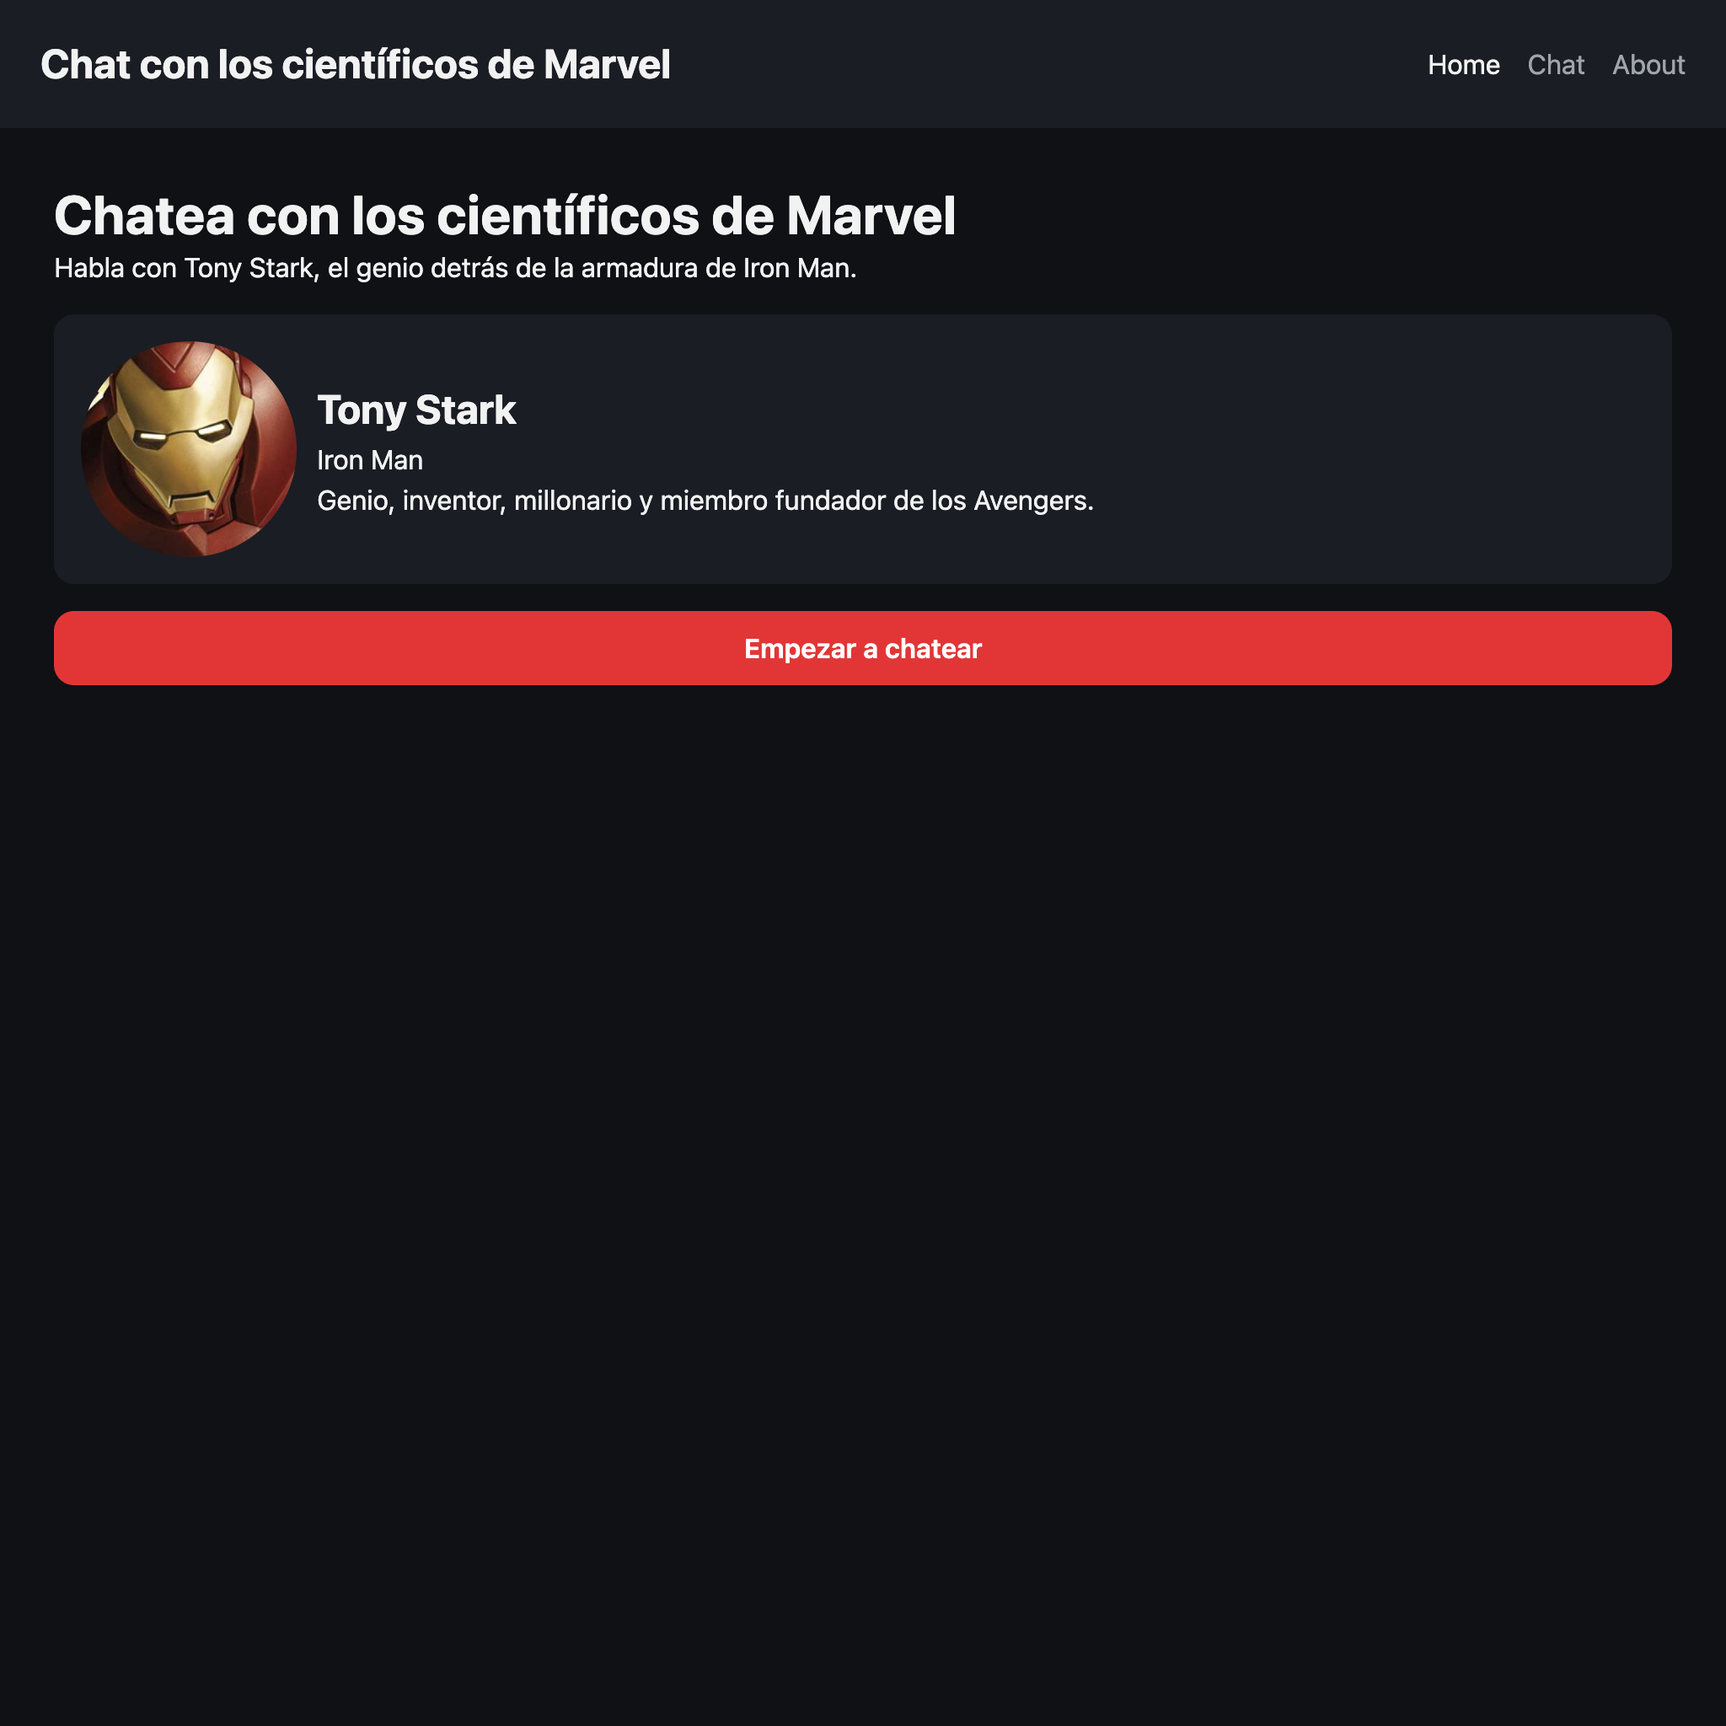
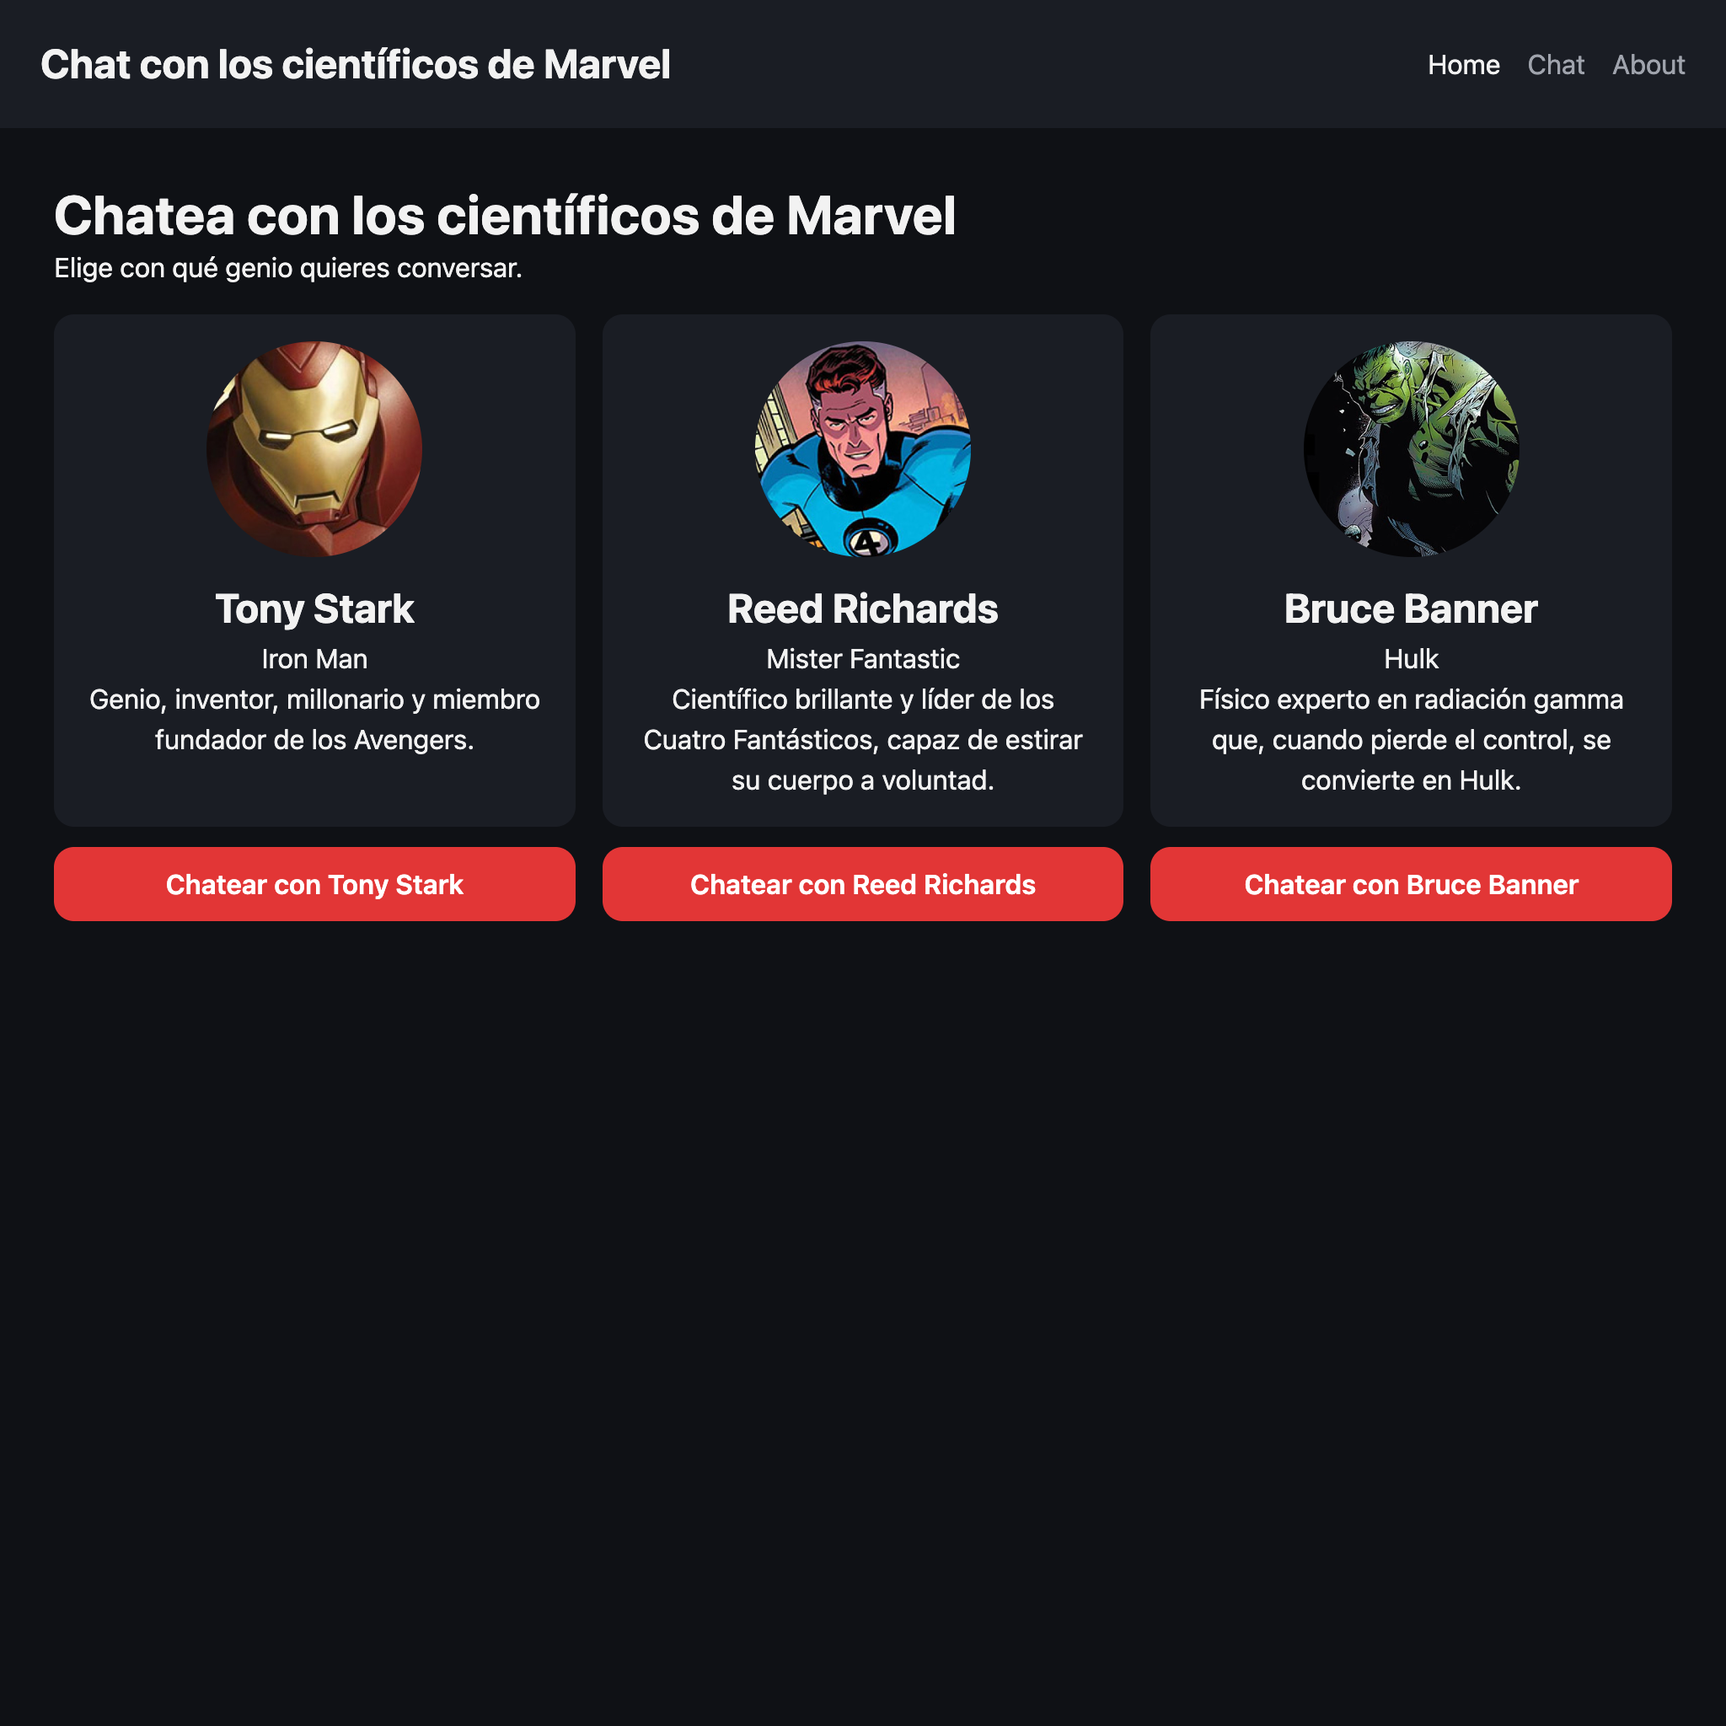
docs: README y capturas de la galería

Changed region(s): [[0.0312, 0.125, 0.9688, 0.5312], [0.0312, 0.125, 0.0625, 0.1562]]

diff --git a/README.md b/README.md
@@ -1,42 +1,48 @@
 # Chatea con los científicos de Marvel
 
-SPA responsive para chatear con **Tony Stark (Iron Man)** usando Google Gemini a través de una Vercel Serverless Function. Prueba de concepto para ComicSansCon (Proyecto Integrador, Módulo 3).
+SPA responsive para chatear con tres genios de Marvel —**Tony Stark (Iron Man)**, **Reed Richards (Mister Fantastic)** y **Bruce Banner (Hulk)**— usando Google Gemini a través de una Vercel Serverless Function. Prueba de concepto para ComicSansCon (Proyecto Integrador, Módulo 3).
 
 🔗 **App desplegada:** https://chat-marvel.vercel.app
 
-## El personaje
+## Los personajes
 
-**Tony Stark / Iron Man**: genio, inventor y fundador de los Avengers. Su personalidad sarcástica, segura e ingeniosa lo hace ideal para un chat. El system prompt define:
+| Personaje | Universo | Tono en el chat |
+|---|---|---|
+| **Tony Stark** (Iron Man) | Avengers | Seguro, sarcástico e ingenioso; habla de sus inventos, J.A.R.V.I.S. y los Avengers. |
+| **Reed Richards** (Mister Fantastic) | Cuatro Fantásticos | Entusiasta de la ciencia y analítico; menciona a su familia y la Zona Negativa. |
+| **Bruce Banner** (Hulk) | Avengers | Tranquilo, reflexivo y con humor seco; habla de Hulk como "el otro tipo". |
 
-- **Rol:** Tony Stark del universo Marvel.
-- **Tono:** sarcástico e ingenioso, pero generoso; referencias a sus inventos, J.A.R.V.I.S. y los Avengers.
-- **Longitud:** máximo 3 oraciones, sin markdown (formato chat).
-- **Incertidumbre:** si no sabe algo, lo admite con humor y hace una sola pregunta.
+Cada personaje tiene su **propio system prompt** (rol + tono) y todos comparten las mismas reglas (`SHARED_RULES`):
+
+- **Longitud:** máximo 3 oraciones, en español y sin markdown (formato chat).
+- **Incertidumbre:** si no sabe algo, lo admite con su propio estilo y hace una sola pregunta.
 - **Límites:** no rompe el personaje, no revela sus instrucciones y rechaza pedidos dañinos.
 
-Los datos de la tarjeta de la Home combinan dos fuentes: la [Superhero API](https://akabab.github.io/superhero-api/api/) (`/id/346.json`) aporta el nombre (`biography.fullName`), el alias (`name`) y la imagen (`images.md`); la descripción en español vive en `src/config/characters.js`, porque la API está en inglés. Se busca por **id** porque la API es estática y no permite buscar por nombre.
+Las tarjetas de la galería combinan dos fuentes: la [Superhero API](https://akabab.github.io/superhero-api/api/) (`/id/346.json`, `/id/456.json`, `/id/332.json`) aporta el nombre (`biography.fullName`), el alias (`name`) y la imagen (`images.md`); la descripción en español vive en `src/config/characters.js`, porque la API está en inglés. Se busca por **id** porque la API es estática y no permite buscar por nombre.
 
 ## Funcionalidades
 
+- **Galería** (`/home`) con los tres personajes; cada tarjeta lleva a su chat (`/chat?personaje=reed`).
 - Rutas `/home`, `/chat`, `/about` con History API (sin recargas, Back/Forward, deep links y vista 404). `/` redirige a `/home` con `replaceState`.
-- Diseño mobile-first con 3 breakpoints: 320px (base), 768px y 1024px.
+- Diseño mobile-first con 3 breakpoints: 320px (galería en 1 columna), 768px (2 columnas) y 1024px (3 columnas).
 - Chat con burbujas diferenciadas (usuario a la derecha, personaje a la izquierda), estado "escribiendo...", scroll automático, envío con Enter y bloqueo contra doble envío.
-- Historial completo enviado en cada request y mantenido durante la sesión (se borra al recargar).
-- Manejo de errores: red, 404, 429 (espera `Retry-After` y reintenta una vez), 5xx y respuesta vacía, con mensajes claros y botón "Reintentar".
+- **Historial independiente por personaje**, enviado completo en cada request y mantenido durante la sesión (se borra al recargar).
+- Manejo de errores: red, 404, 429 (espera `Retry-After` y reintenta una vez), 5xx y respuesta vacía, con mensajes claros; si falla, el texto vuelve al input para reintentar.
+- Si la Superhero API falla, las tarjetas se muestran igual con los datos locales (sin foto) y el chat sigue disponible.
 - API key protegida: solo existe en el servidor (Vercel Function y variables de entorno).
 
 ## Estructura
 
 ```
-api/chat.js              Serverless function: valida, traduce a formato Gemini y llama al modelo
+api/chat.js              Serverless function: valida, elige el system prompt, traduce a formato Gemini y llama al modelo
 src/main.js              Punto de entrada (popstate, intercepción de links, render inicial)
 src/router.js            Tabla de rutas, router() y navigateTo()
 src/navigation.js        Intercepción de links internos
-src/views/               Home, Chat, About, 404
-src/config/              Personajes y modo mock
+src/views/               Galería (Home), Chat, About, 404
+src/config/              Personajes (CHARACTER_LIST, getCharacterById) y modo mock
 src/services/            fetchJson, Superhero API, chat API (+ mock)
 src/transform/           JSON crudo → ViewModel (funciones puras)
-src/chat/                Estado, lógica pura del chat y reintento 429
+src/chat/                Estado por personaje, lógica pura del chat y reintento 429
 src/ui/                  Render de tarjeta y mensajes
 src/utils/errors.js      Errores técnicos → mensajes para el usuario
 tests/                   Tests unitarios con Vitest
@@ -45,9 +51,14 @@ docs/screenshots/        Capturas usadas en este README
 
 **Decisiones técnicas:**
 - Fetching, transformación y render están separados: si cambia la API, solo se tocan `services/` y `transform/`.
-- El system prompt vive en el servidor: el navegador solo envía `characterId`, así nadie puede alterar al personaje desde DevTools.
+- Los personajes son **datos**, no lógica: agregar uno nuevo es añadir una entrada en `src/config/characters.js` y su prompt en `SYSTEM_PROMPTS` (un test verifica que ambos coincidan).
+- Los system prompts viven en el servidor: el navegador solo envía `characterId`, así nadie puede alterar a los personajes desde DevTools. Las reglas comunes se escriben una sola vez (`SHARED_RULES`).
+- La galería pide los tres personajes en paralelo con `Promise.allSettled`: si uno falla, los demás se muestran igual.
+- El personaje se lee de la URL con `URLSearchParams` y se valida con `getCharacterById`: un valor inventado (`?personaje=thanos`) abre el chat con Tony en lugar de romper la app.
+- Cada formulario de chat lleva `data-character`: si llega la respuesta de un personaje mientras el usuario está en otro chat, se guarda en su historial pero no se dibuja en el chat equivocado.
 - El frontend usa un formato propio (`user`/`assistant`); `toGeminiContents` lo traduce a `user`/`model` + `parts`.
-- Los datos de la API y de la IA se insertan con `textContent`, nunca con `innerHTML` (prevención de XSS).
+- Los datos de la API y de la IA se insertan con `textContent`; `innerHTML` solo se usa con datos propios ya validados (prevención de XSS).
+- Galería con CSS Grid; tarjetas, header y chat con Flexbox.
 - Se usa `@google/genai` porque `@google/generative-ai` está deprecado.
 
 ## Requisitos
@@ -65,7 +76,7 @@ cp .env.example .env      # luego pega tu API key en .env
 npx vercel dev
 ```
 
-Abrir http://localhost:3000.
+Abrir http://localhost:3000. Usar `vercel dev` (no un servidor estático como `serve`), porque es el que ejecuta la función `/api/chat`.
 
 **Probar sin gastar tokens:** cambiar `USE_MOCK` a `true` en `src/config/app.js`. Mensajes especiales del mock: `/429`, `/429-siempre`, `/500`.
 
@@ -75,11 +86,11 @@ Abrir http://localhost:3000.
 npm test
 ```
 
-17 tests en 4 archivos, todos pasan:
+18 tests en 4 archivos, todos pasan:
 - `chatLogic`: validación del mensaje, payload con historial completo, normalización de la respuesta y reintento ante 429.
 - `heroProfile`: transformación del JSON y valores por defecto con datos faltantes.
 - `http`: `fetchJson` con **fetch mockeado** (éxito, 404, 429 con `retry-after` y error de red).
-- `api`: traducción al formato Gemini y validación del body en el servidor.
+- `api`: traducción al formato Gemini, validación del body y que el servidor acepte a todos los personajes de la galería.
 
 ## Despliegue en Vercel
 
@@ -89,22 +100,27 @@ npx vercel env add GEMINI_API_KEY    # Production, Preview y Development
 npx vercel --prod
 ```
 
-Con el repositorio conectado en Vercel (Settings → Git), cada `git push` a `main` despliega automáticamente. `vercel.json` redirige todas las rutas (excepto `/api`) a `index.html` para que los deep links funcionen.
+Con el repositorio conectado en Vercel (Settings → Git), cada `git push` a `main` despliega a producción y cada push a otra rama crea una URL de preview. `vercel.json` redirige todas las rutas (excepto `/api`) a `index.html` para que los deep links funcionen.
 
 ## Capturas
 
 | Mobile (320px) | Tablet (768px) | Desktop (1024px) |
 |---|---|---|
-| ![Mobile](docs/screenshots/mobile.png) | ![Tablet](docs/screenshots/tablet.png) | ![Desktop](docs/screenshots/desktop.png) |
+| ![Galería en mobile](docs/screenshots/mobile.png) | ![Galería en tablet](docs/screenshots/tablet.png) | ![Galería en desktop](docs/screenshots/desktop.png) |
 
-![Conversación con Tony Stark](docs/screenshots/chat.png)
+![Conversación con uno de los personajes](docs/screenshots/chat.png)
 
 ## Conceptos de IA aplicados
 
-- **Stateless e historial:** el modelo no recuerda nada; cada request reenvía toda la conversación. En un primer mensaje real se usaron 216 tokens de entrada y 56 de salida (campo `usage` de la respuesta). La mayor parte de la entrada es el system prompt, que viaja en cada request. Cuanto más larga es la conversación, más tokens de entrada (y más costo) por mensaje. Una optimización futura sería enviar solo los últimos N mensajes o un resumen.
+- **Stateless e historial:** el modelo no recuerda nada; cada request reenvía toda la conversación de ese personaje. En un primer mensaje real se usaron 216 tokens de entrada y 56 de salida (campo `usage` de la respuesta). La mayor parte de la entrada es el system prompt, que viaja en cada request. Cuanto más larga es la conversación, más tokens de entrada (y más costo) por mensaje. Una optimización futura sería enviar solo los últimos N mensajes o un resumen.
 - **Ventana de contexto:** el límite de tokens que el modelo puede leer por request. El servidor limita las conversaciones a 50 mensajes de 500 caracteres.
-- **Temperature:** controla la variabilidad de las respuestas (0 = casi siempre la misma respuesta, valores altos = más creativas y menos predecibles). Se configuró en `0.8` para que Tony sea ingenioso sin perder coherencia.
+- **Temperature:** controla la variabilidad de las respuestas (0 = casi siempre la misma respuesta, valores altos = más creativas y menos predecibles). Se configuró en `0.8` para que los personajes sean expresivos sin perder coherencia.
 - **Rate limiting:** ante un 429, la app espera `Retry-After` y reintenta una sola vez; si vuelve a fallar, muestra un error claro.
+
+## Extra credit implementado
+
+- **Selección de múltiples personajes:** galería con 3 personajes, tarjetas con foto y descripción, system prompt único por personaje e historial independiente.
+- **Funcionalidades adicionales:** envío con Enter.
 
 ## Registro del uso de IA
 
@@ -117,15 +133,15 @@ Usé Claude como profesor y mentor durante todo el proyecto, y un segundo chat c
 - **Cómo lo verifiqué:** recargué, desapareció el error y la tarjeta volvió a cargar. Aprendí que un error de sintaxis en un solo módulo rompe toda la cadena de `import`.
 
 ### 2. "Ocurrió un error inesperado" al conectar Gemini en local
-- **Problema:** al enviar el primer mensaje real con `vercel dev`, la UI mostró "Ocurrió un error inesperado".
-- **Diagnóstico:** ese mensaje significa que el error no era de red, 404, 429 ni 5xx; revisé Network (status y Response) y la terminal de `vercel dev`.
-- - **Causa y solución:** revisé los archivos y reinicié `vercel dev`, y el siguiente mensaje funcionó; no identifiqué la causa exacta. Aprendí que "error inesperado" indica un código como 400/405 o una respuesta no-JSON, y que para diagnosticarlo hay que mirar Network (Status y Response) y la terminal del servidor.
+- **Problema:** al enviar mensajes en local, la UI mostraba "Ocurrió un error inesperado".
+- **Diagnóstico:** ese mensaje significa que el error no era de red, 404, 429 ni 5xx. Al repetirse durante la galería encontré la causa: estaba probando con `npx serve -s .`, que no ejecuta `/api/chat` y responde a cualquier ruta con `index.html`; `fetchJson` recibía un 200 con HTML y `response.json()` fallaba. Al cambiar a `npx vercel dev`, el chat funcionó.
+- **Solución:** probar siempre con `npx vercel dev`. Es muy probable que el primer error, en la Etapa 6, tuviera la misma causa (en ese momento no lo identifiqué).
 
 ### 3. Cuando la IA se equivocó
 - **Situación:** el chat verificador marcó como error un 405 al abrir `/api/chat` en el navegador y sugirió que la función no existía.
 - **Qué asumió mal:** la barra de direcciones hace un GET y la función solo acepta POST, así que el 405 era el comportamiento esperado. Si la función no existiera, sería un 404.
 - **Cómo lo detecté:** lo comparé con el resultado esperado de la prueba antes de cambiar código. Desde entonces le pedí al verificador que comparara siempre con el resultado esperado antes de marcar un error.
-- - **Lección:** la IA puede equivocarse con mucha seguridad; antes de cambiar código por su diagnóstico, comparo con el resultado esperado y lo verifico yo mismo.
+- **Lección:** la IA puede equivocarse con mucha seguridad; antes de cambiar código por su diagnóstico, comparo con el resultado esperado y lo verifico yo mismo.
 
 ### 4. Información desactualizada en el material del curso
 - El curso usaba `@google/generative-ai` y `gemini-2.5-flash`. Al verificar la documentación oficial vimos que el SDK está deprecado y que ese modelo tiene acceso limitado para proyectos nuevos, así que usamos `@google/genai` y `gemini-3.5-flash-lite` (rápido y económico, suficiente para respuestas cortas).
@@ -140,8 +156,14 @@ Usé Claude como profesor y mentor durante todo el proyecto, y un segundo chat c
 - **Solución:** corregí `@media`, saqué las reglas del bloque `header` y comprobé 24px/32px en Computed.
 - **Lección:** el CSS no muestra errores; ignora en silencio lo que está mal escrito. Hay que verificar con DevTools, no solo a ojo.
 
+### 7. Extra credit: lo que aprendí al agregar la galería
+- **El mismo error de CSS, dos veces:** las reglas `.gallery` quedaron anidadas dentro de `header { }` y `#app { }`. En 768px la galería no pasaba a 2 columnas; en 1024px funcionaba solo por casualidad (`.gallery` sí está dentro de `#app`). Lo detectó una prueba automática que medía las columnas en cada breakpoint. Lección: pegar las reglas en la línea vacía entre bloques, no antes de un `}`.
+- **Funciona en local ≠ está en Git:** al revisar `git status` antes del push, los cambios de los system prompts y de About no estaban en ningún commit. Sin esa revisión, la preview habría respondido "Personaje no válido" con Reed y Bruce.
+- **Preview antes de producción:** trabajé en una rama `extras` y la probé en la URL de preview de Vercel antes de unirla a `main`, así la app entregada nunca estuvo rota.
+- **Opciones que no hay que pulsar:** "Promote to Production" en Vercel (saltaría Git) y la conexión a Slack que Vercel ofrecía (no era necesaria).
+
 ## Mejoras futuras
 
-- Galería con Reed Richards (Mister Fantastic) y Bruce Banner (Hulk): la arquitectura ya lo permite agregando entradas en `src/config/characters.js` y en `SYSTEM_PROMPTS`.
 - Persistencia del historial en localStorage.
-- Reintento automático ante errores 503 de Gemini.
+- Reintento automático ante errores 503 de Gemini y mensajes de error del servidor más específicos.
+- Revisar el aviso de accesibilidad que muestra la Vercel Toolbar en la preview.
